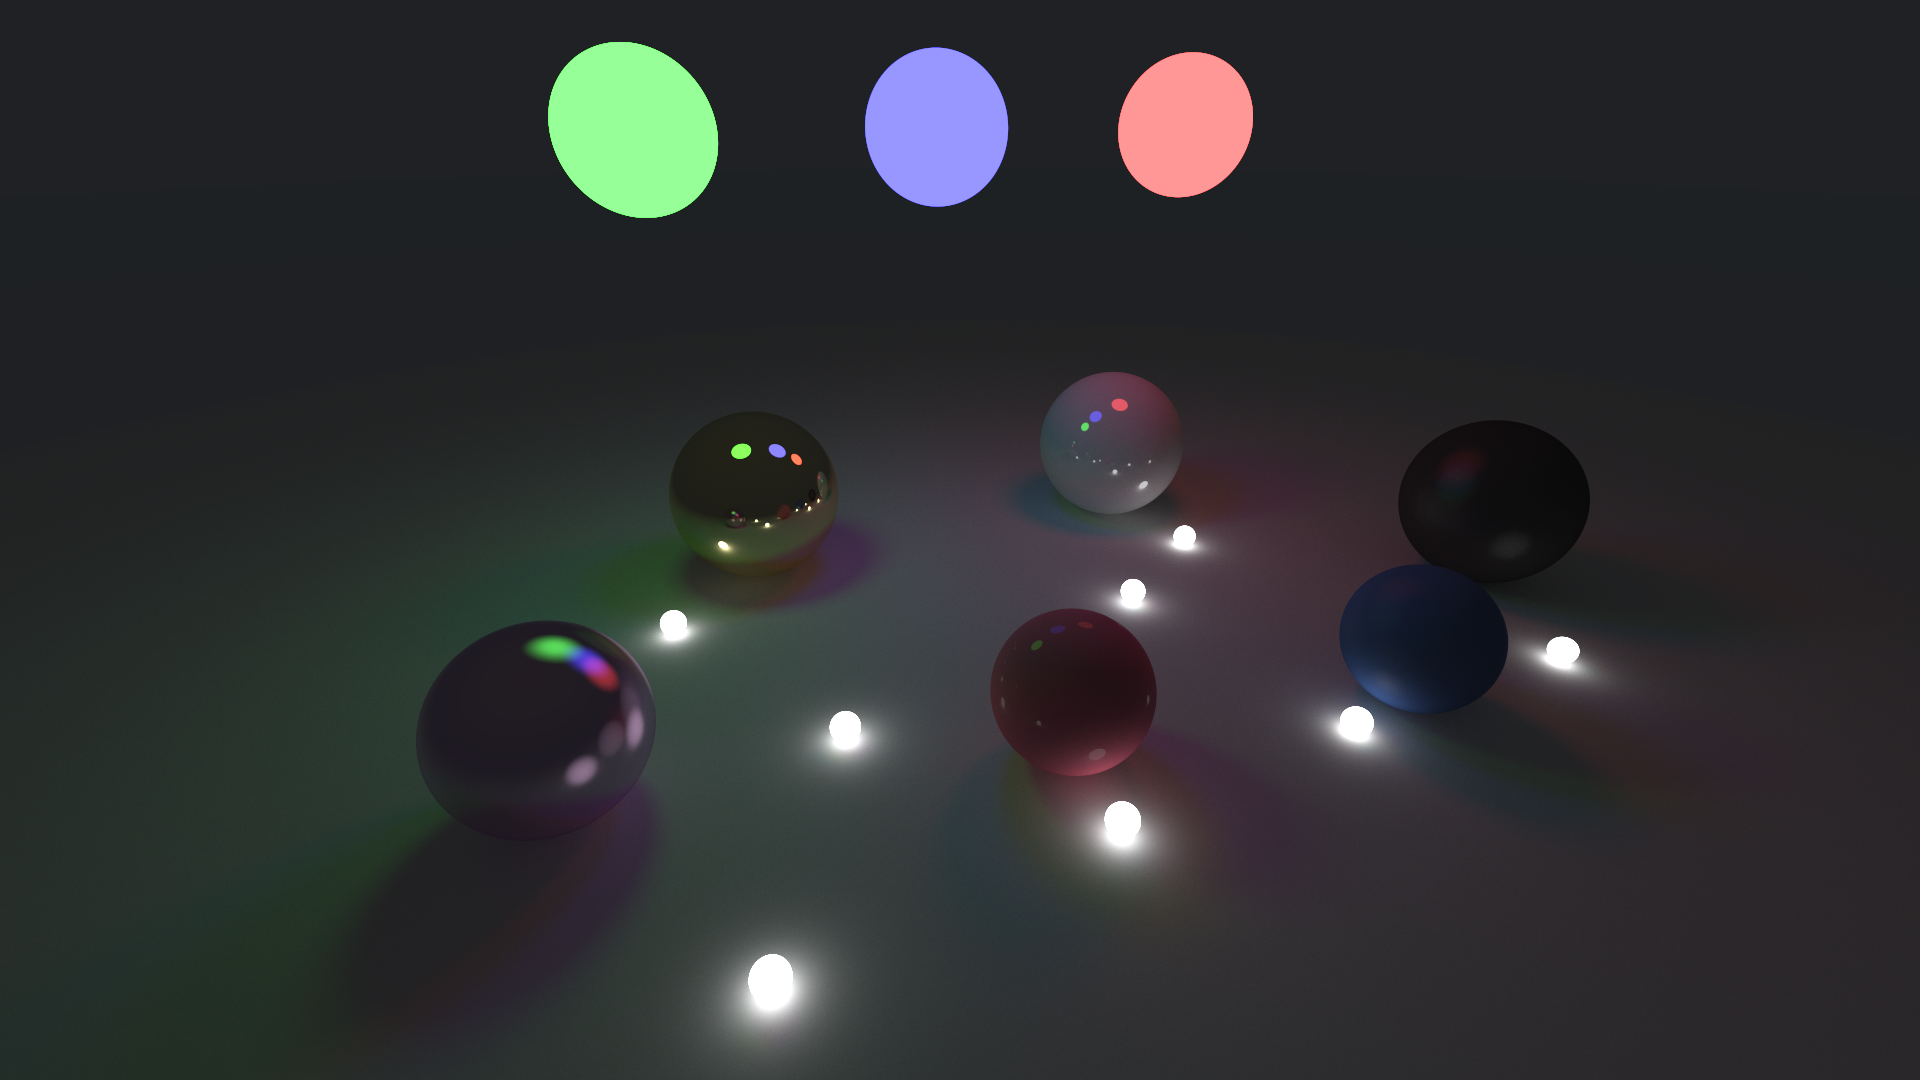
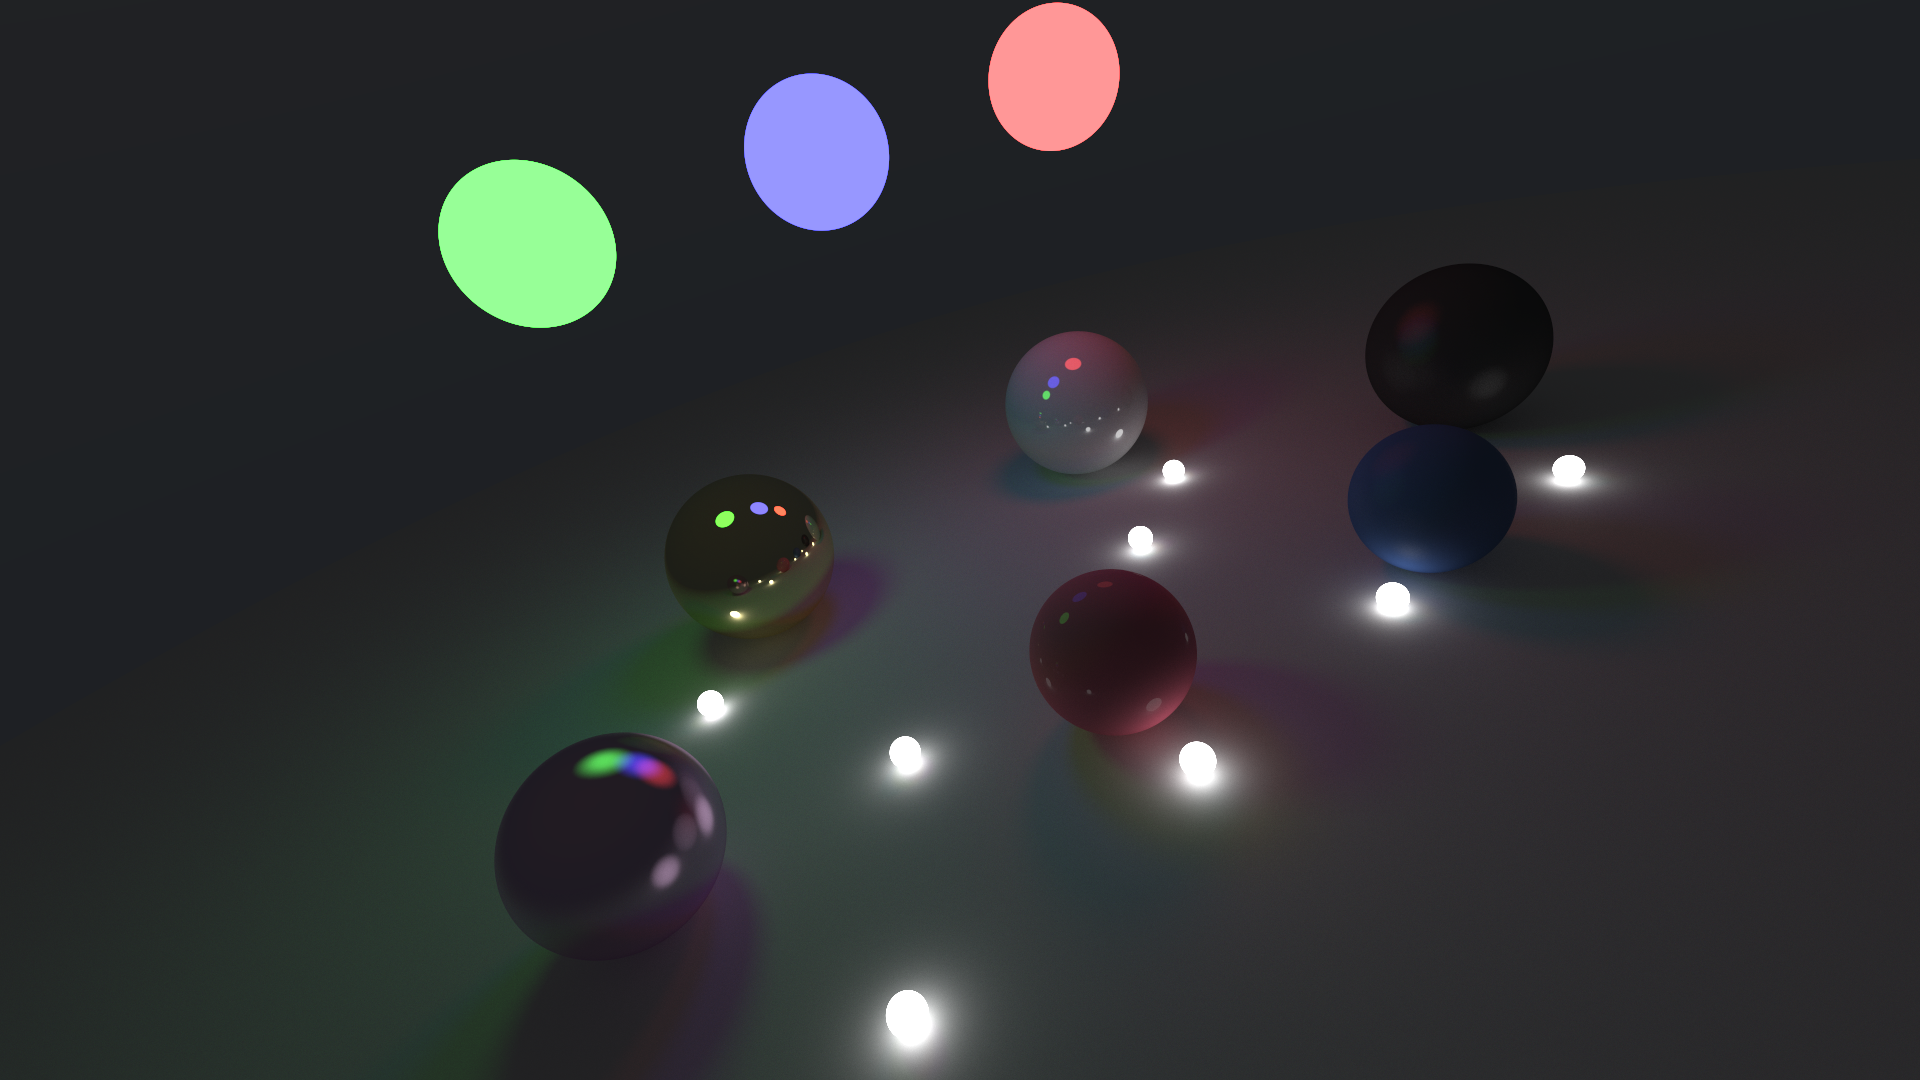
feat: add configuration to tilt camera sideways

diff --git a/include/path_tracer/scene_loader.h b/include/path_tracer/scene_loader.h
@@ -99,6 +99,7 @@ private:
 		cam.look_from = cam_node["look_from"].as<vec3>(vec3(0, 0, 0));
 		cam.look_at = cam_node["look_at"].as<vec3>(vec3(0, 0, -1));
 		cam.vfov = cam_node["fov"].as<double>(65.0);
+		cam.vup = cam_node["view_up"].as<vec3>(vec3(0, 1, 0));
 	}
 };
 
